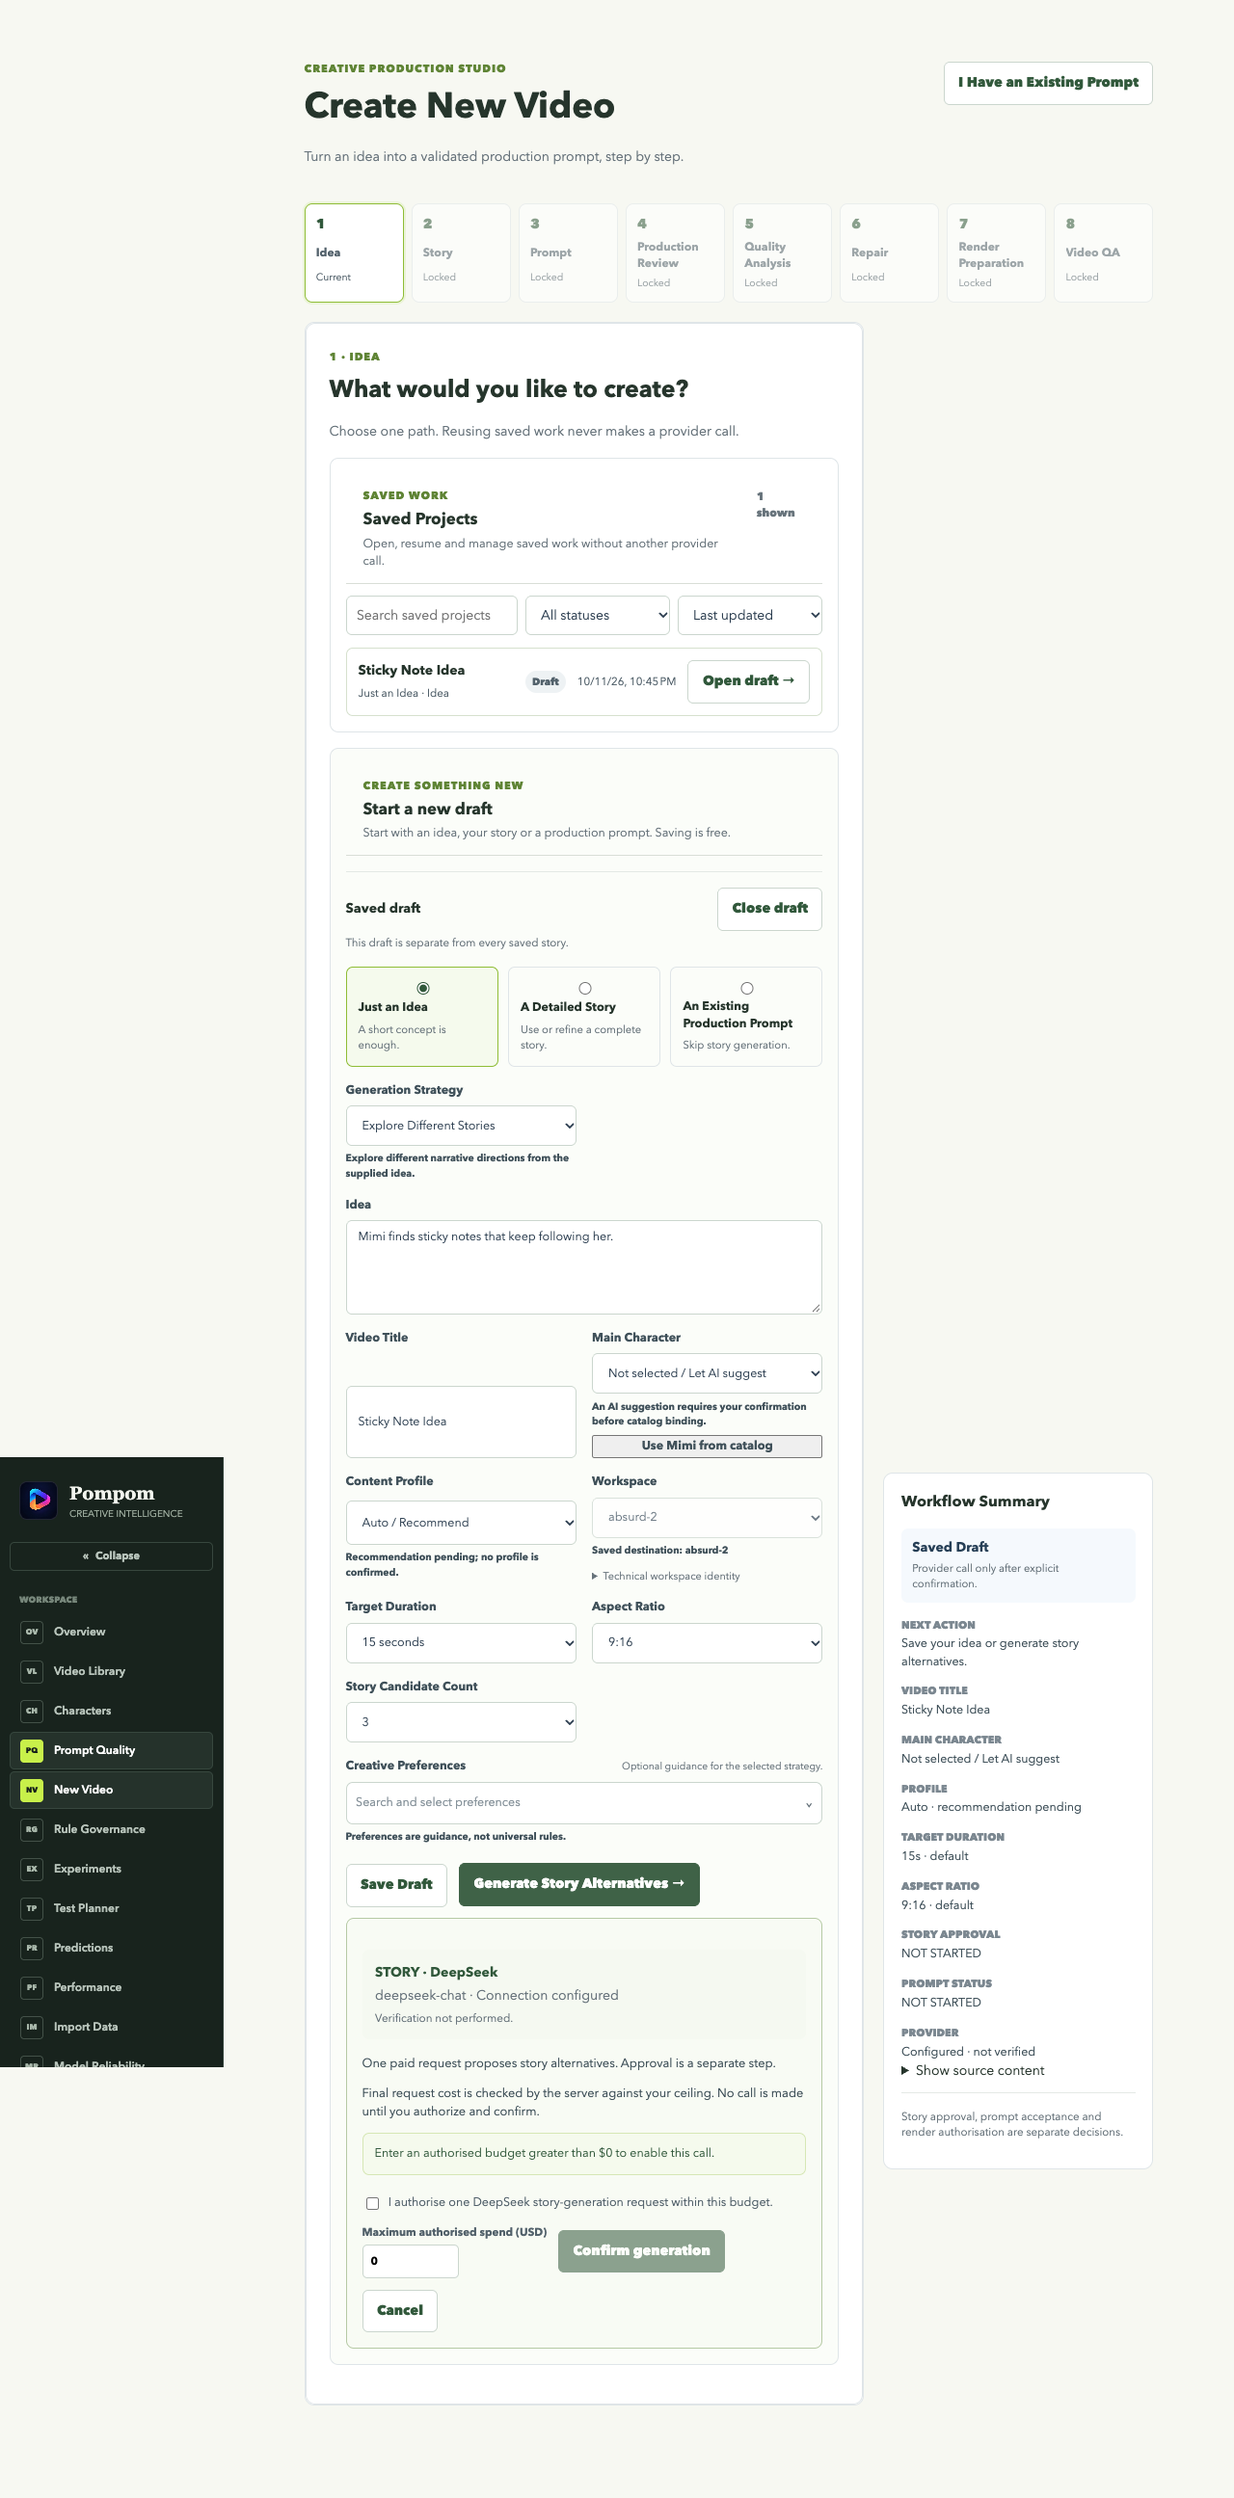
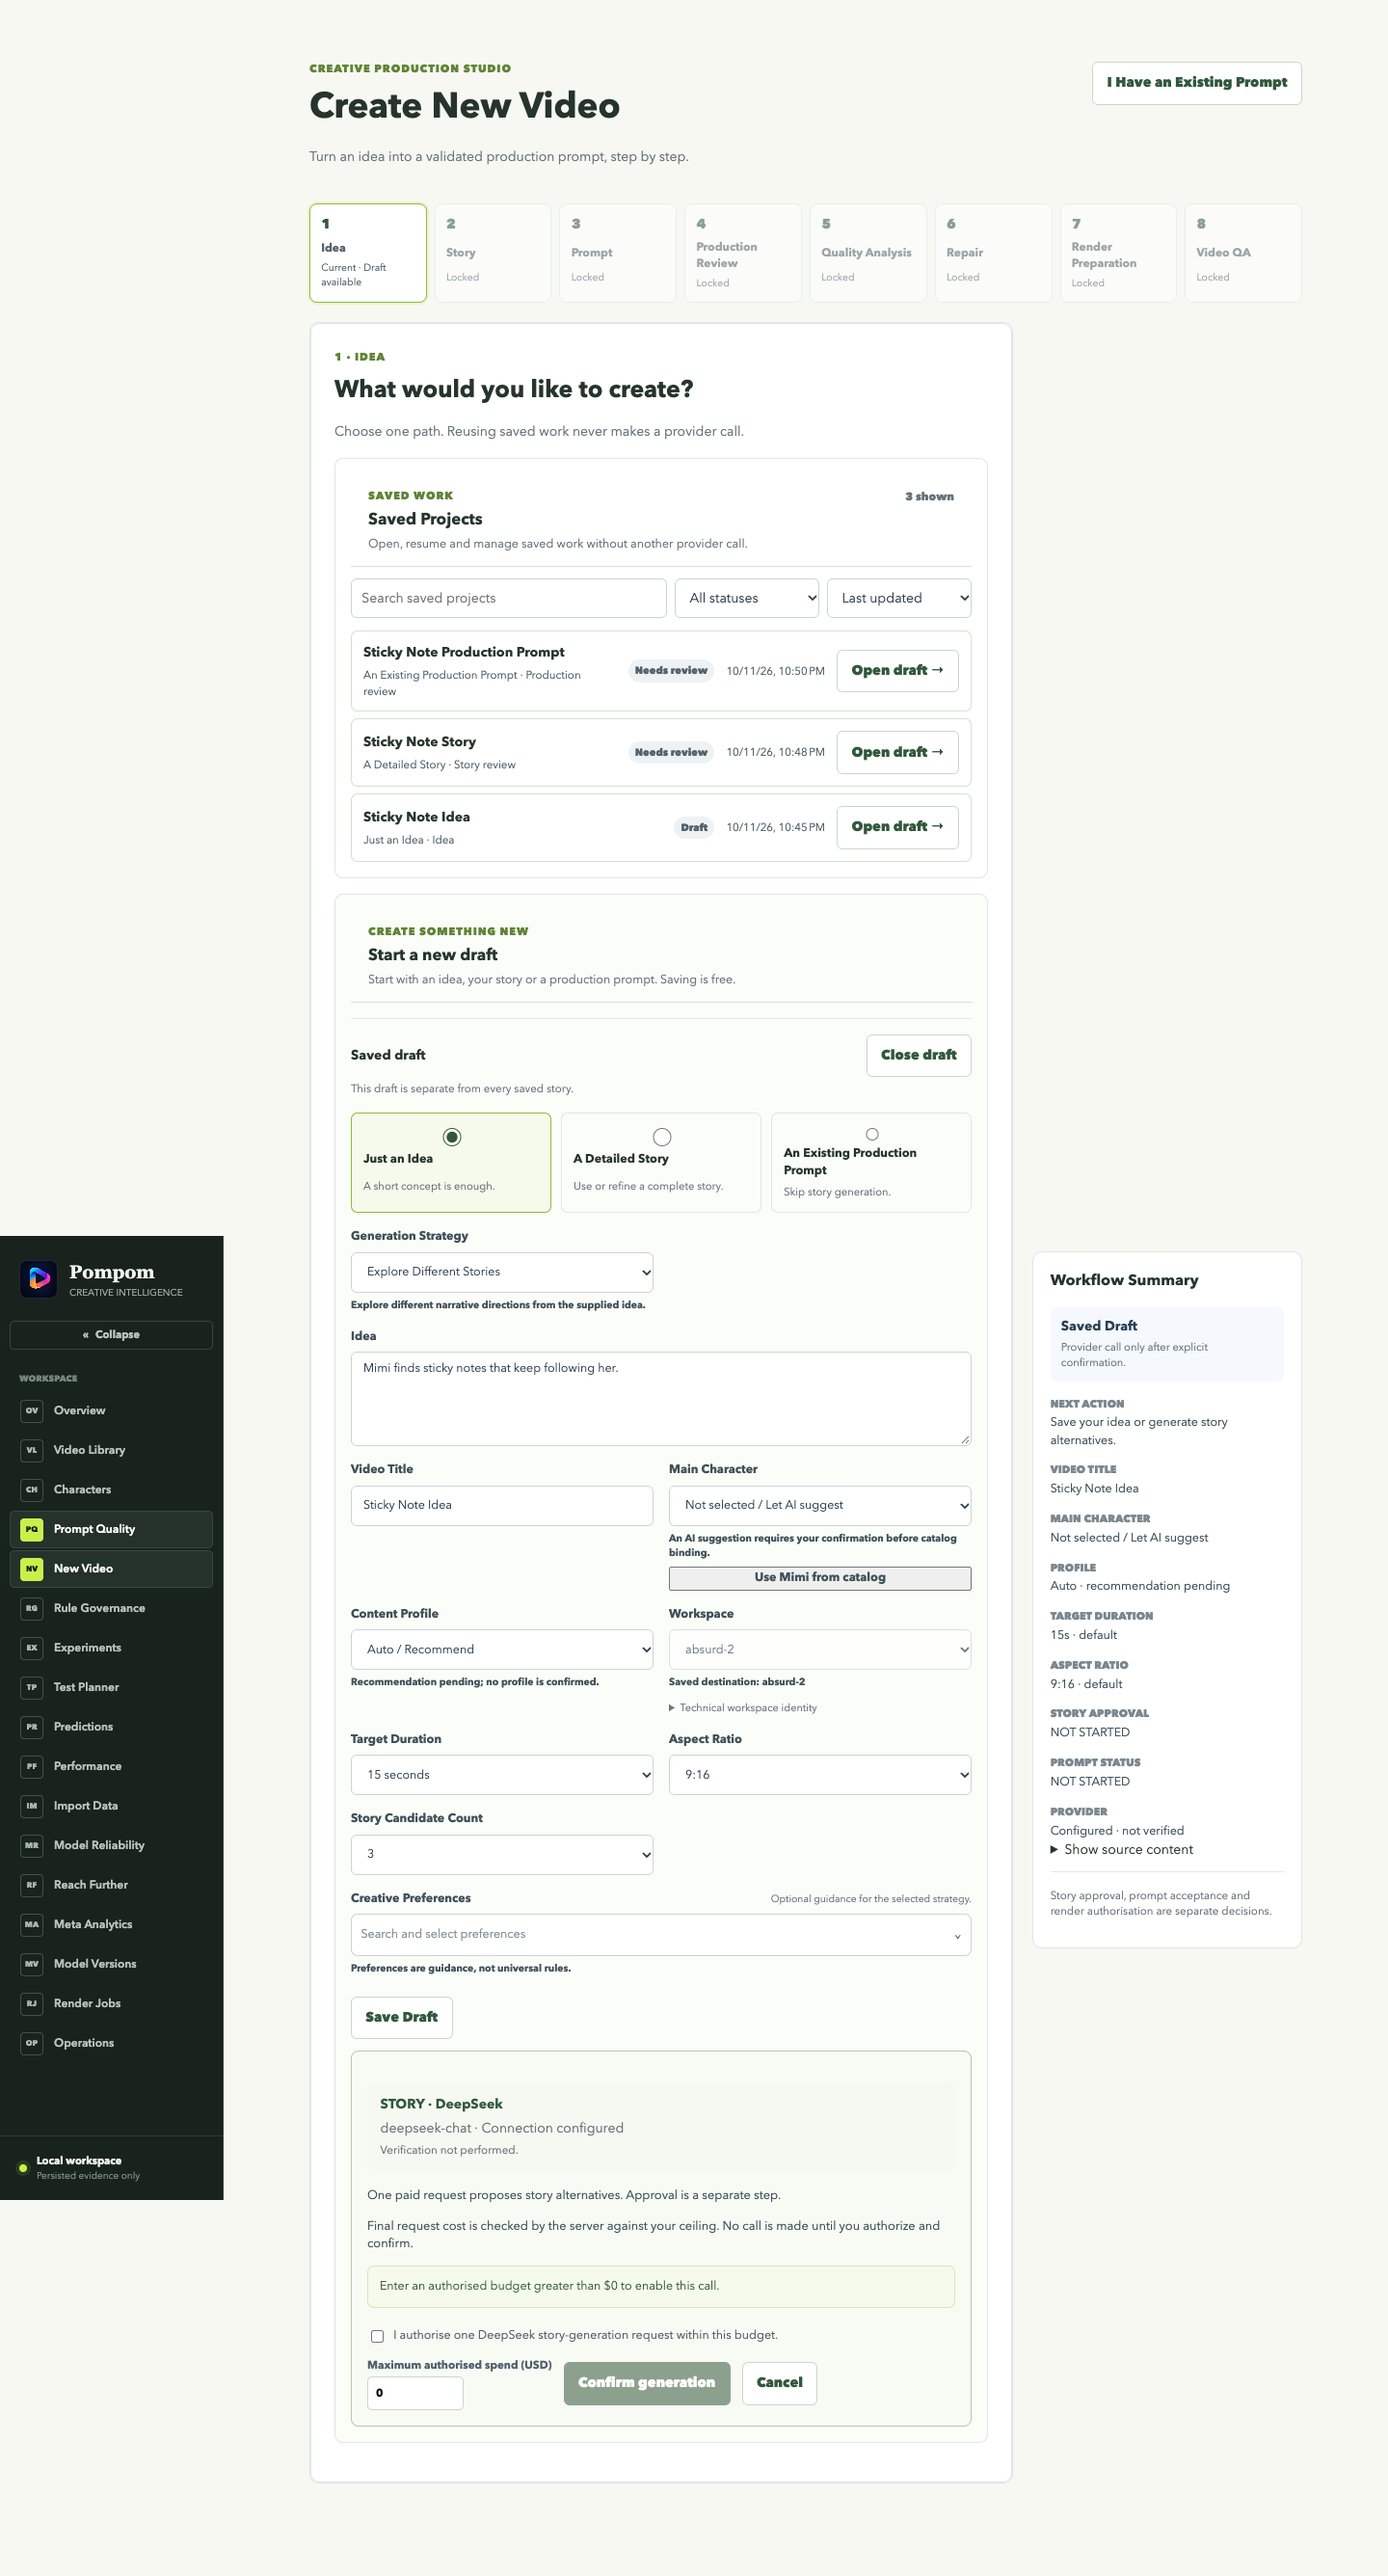
feat: harden visual reference validation and critical scene planning

diff --git a/intelligence/backend/src/main/java/com/pompomhills/intelligence/workflow/IdeaDraftService.java b/intelligence/backend/src/main/java/com/pompomhills/intelligence/workflow/IdeaDraftService.java
@@ -165,7 +165,7 @@ public class IdeaDraftService {
 
   public List<Map<String, Object>> list() {
     return jdbc.sql(
-            "SELECT DISTINCT ON (payload->>'draftId') payload::text FROM post_family_workflow_events WHERE kind='CREATIVE_STUDIO_SESSION' AND payload->>'ideaDraft'='true' ORDER BY payload->>'draftId',(payload->>'revision')::int DESC,payload->>'updatedAt' DESC,created_at DESC,id DESC")
+            "SELECT DISTINCT ON (payload->>'draftId') payload::text FROM post_family_workflow_events WHERE kind='CREATIVE_STUDIO_SESSION' AND payload->>'ideaDraft'='true' ORDER BY payload->>'draftId',(payload->>'revision')::int DESC,(payload->>'updatedAt')::timestamptz DESC,created_at DESC,id DESC")
         .query((rs, i) -> read(rs.getString(1)))
         .list();
   }
@@ -185,7 +185,7 @@ public class IdeaDraftService {
 
   private Optional<Map<String, Object>> find(UUID id) {
     return jdbc.sql(
-            "SELECT payload::text FROM post_family_workflow_events WHERE kind='CREATIVE_STUDIO_SESSION' AND payload->>'ideaDraft'='true' AND payload->>'draftId'=:id ORDER BY (payload->>'revision')::int DESC,payload->>'updatedAt' DESC,created_at DESC,id DESC LIMIT 1")
+            "SELECT payload::text FROM post_family_workflow_events WHERE kind='CREATIVE_STUDIO_SESSION' AND payload->>'ideaDraft'='true' AND payload->>'draftId'=:id ORDER BY (payload->>'revision')::int DESC,(payload->>'updatedAt')::timestamptz DESC,created_at DESC,id DESC LIMIT 1")
         .param("id", id.toString())
         .query(String.class)
         .optional()

diff --git a/intelligence/backend/src/test/java/com/pompomhills/intelligence/workflow/IdeaDraftPostgresTest.java b/intelligence/backend/src/test/java/com/pompomhills/intelligence/workflow/IdeaDraftPostgresTest.java
@@ -264,4 +264,13 @@ class IdeaDraftPostgresTest {
         .isZero();
     verifyNoInteractions(contents);
   }
+  @Test void sameRevisionCheckpointsUseActualTimeDespiteDifferentTimestampPrecision() throws Exception {
+    UUID id=UUID.randomUUID();
+    for(var checkpoint:List.of(Map.of("checkpoint","IDEA","updatedAt","2026-10-11T12:00:00.120Z"),Map.of("checkpoint","STORY","updatedAt","2026-10-11T12:00:00.120100Z"))) {
+      var payload=new LinkedHashMap<String,Object>(checkpoint);payload.put("draftId",id.toString());payload.put("ideaDraft",true);payload.put("revision",1);payload.put("state",state("DETAILED_STORY","Human story"));
+      jdbc.sql("INSERT INTO post_family_workflow_events(id,kind,payload) VALUES(:id,'CREATIVE_STUDIO_SESSION',CAST(:payload AS jsonb))").param("id",UUID.randomUUID()).param("payload",new ObjectMapper().writeValueAsString(payload)).update();
+    }
+    assertThat(service.get(id,"library/work")).containsEntry("checkpoint","STORY");assertThat(service.list().get(0)).containsEntry("checkpoint","STORY");
+  }
+
 }
